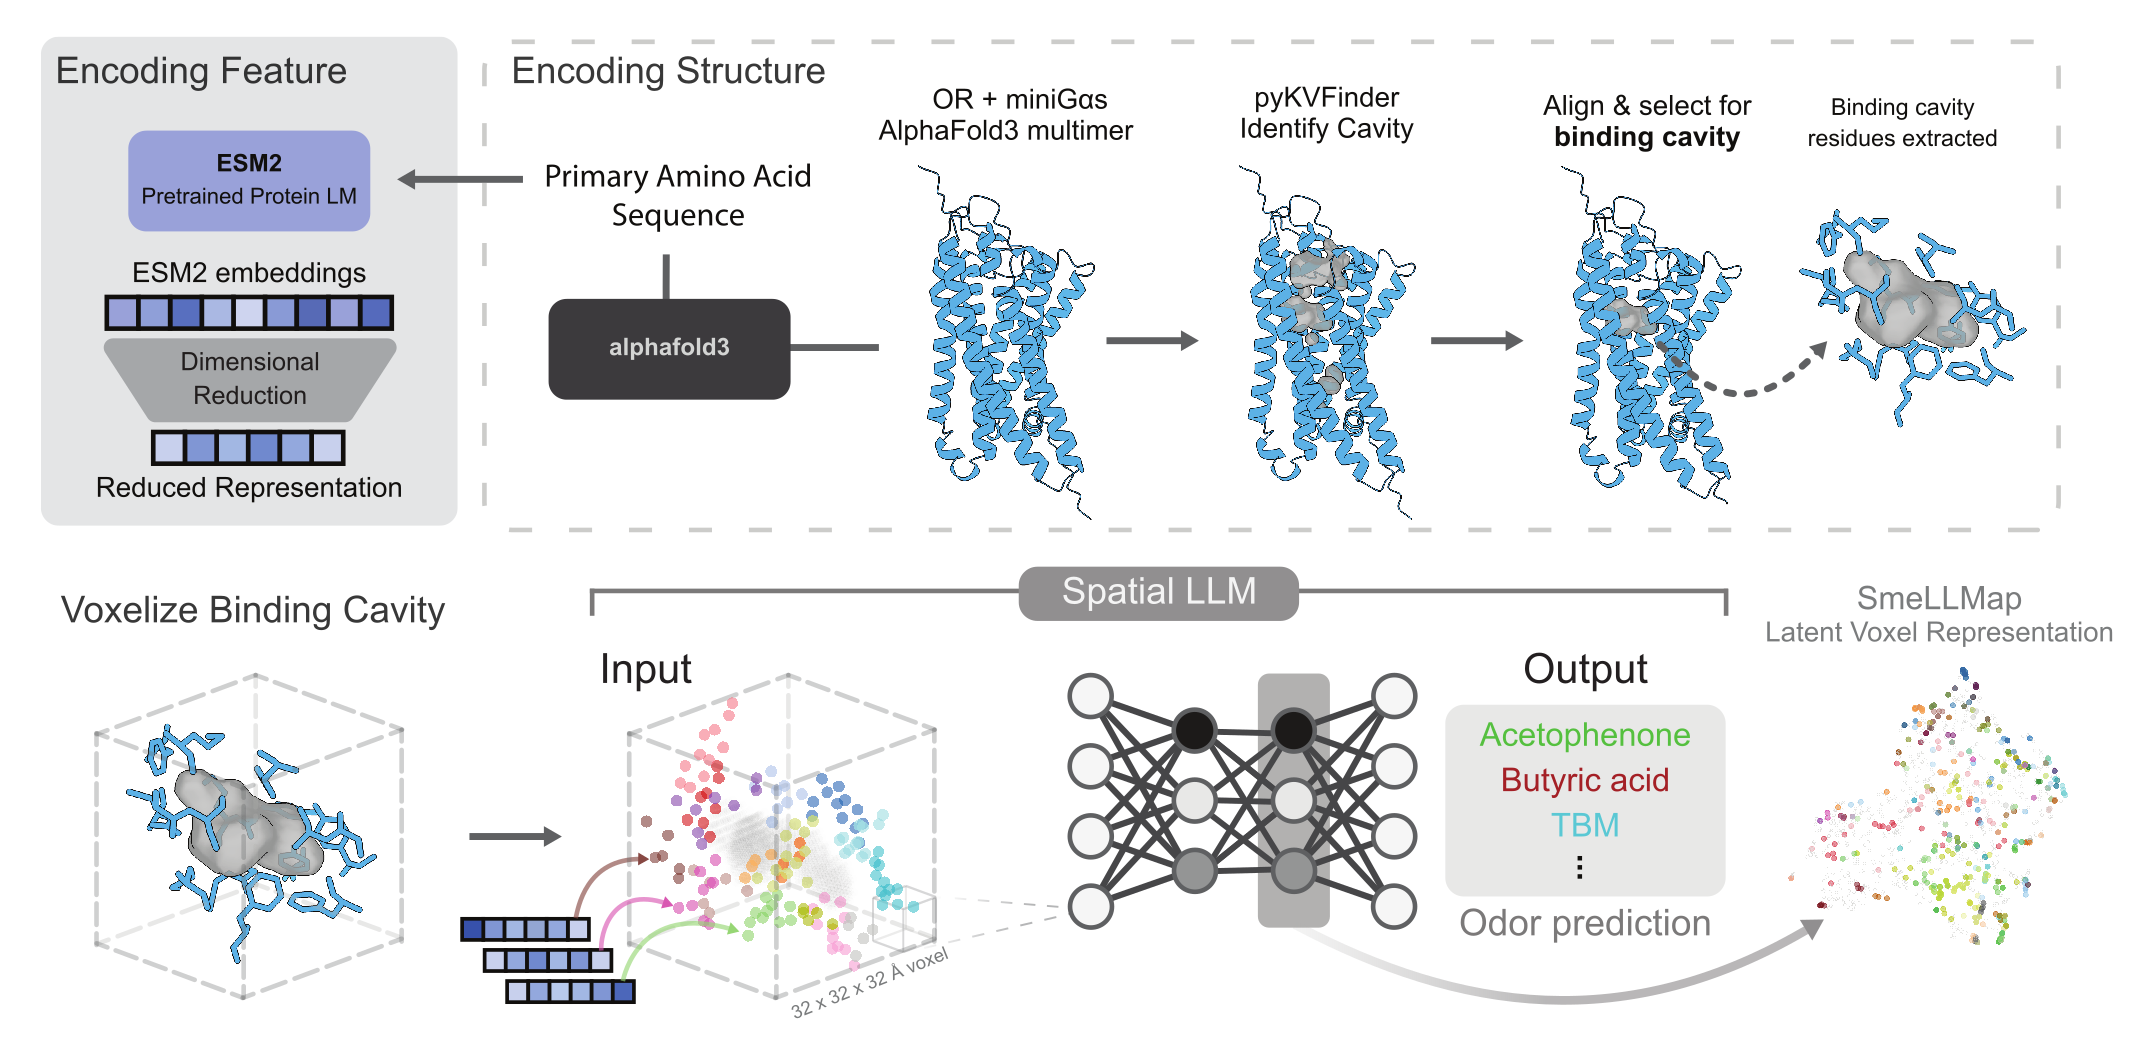
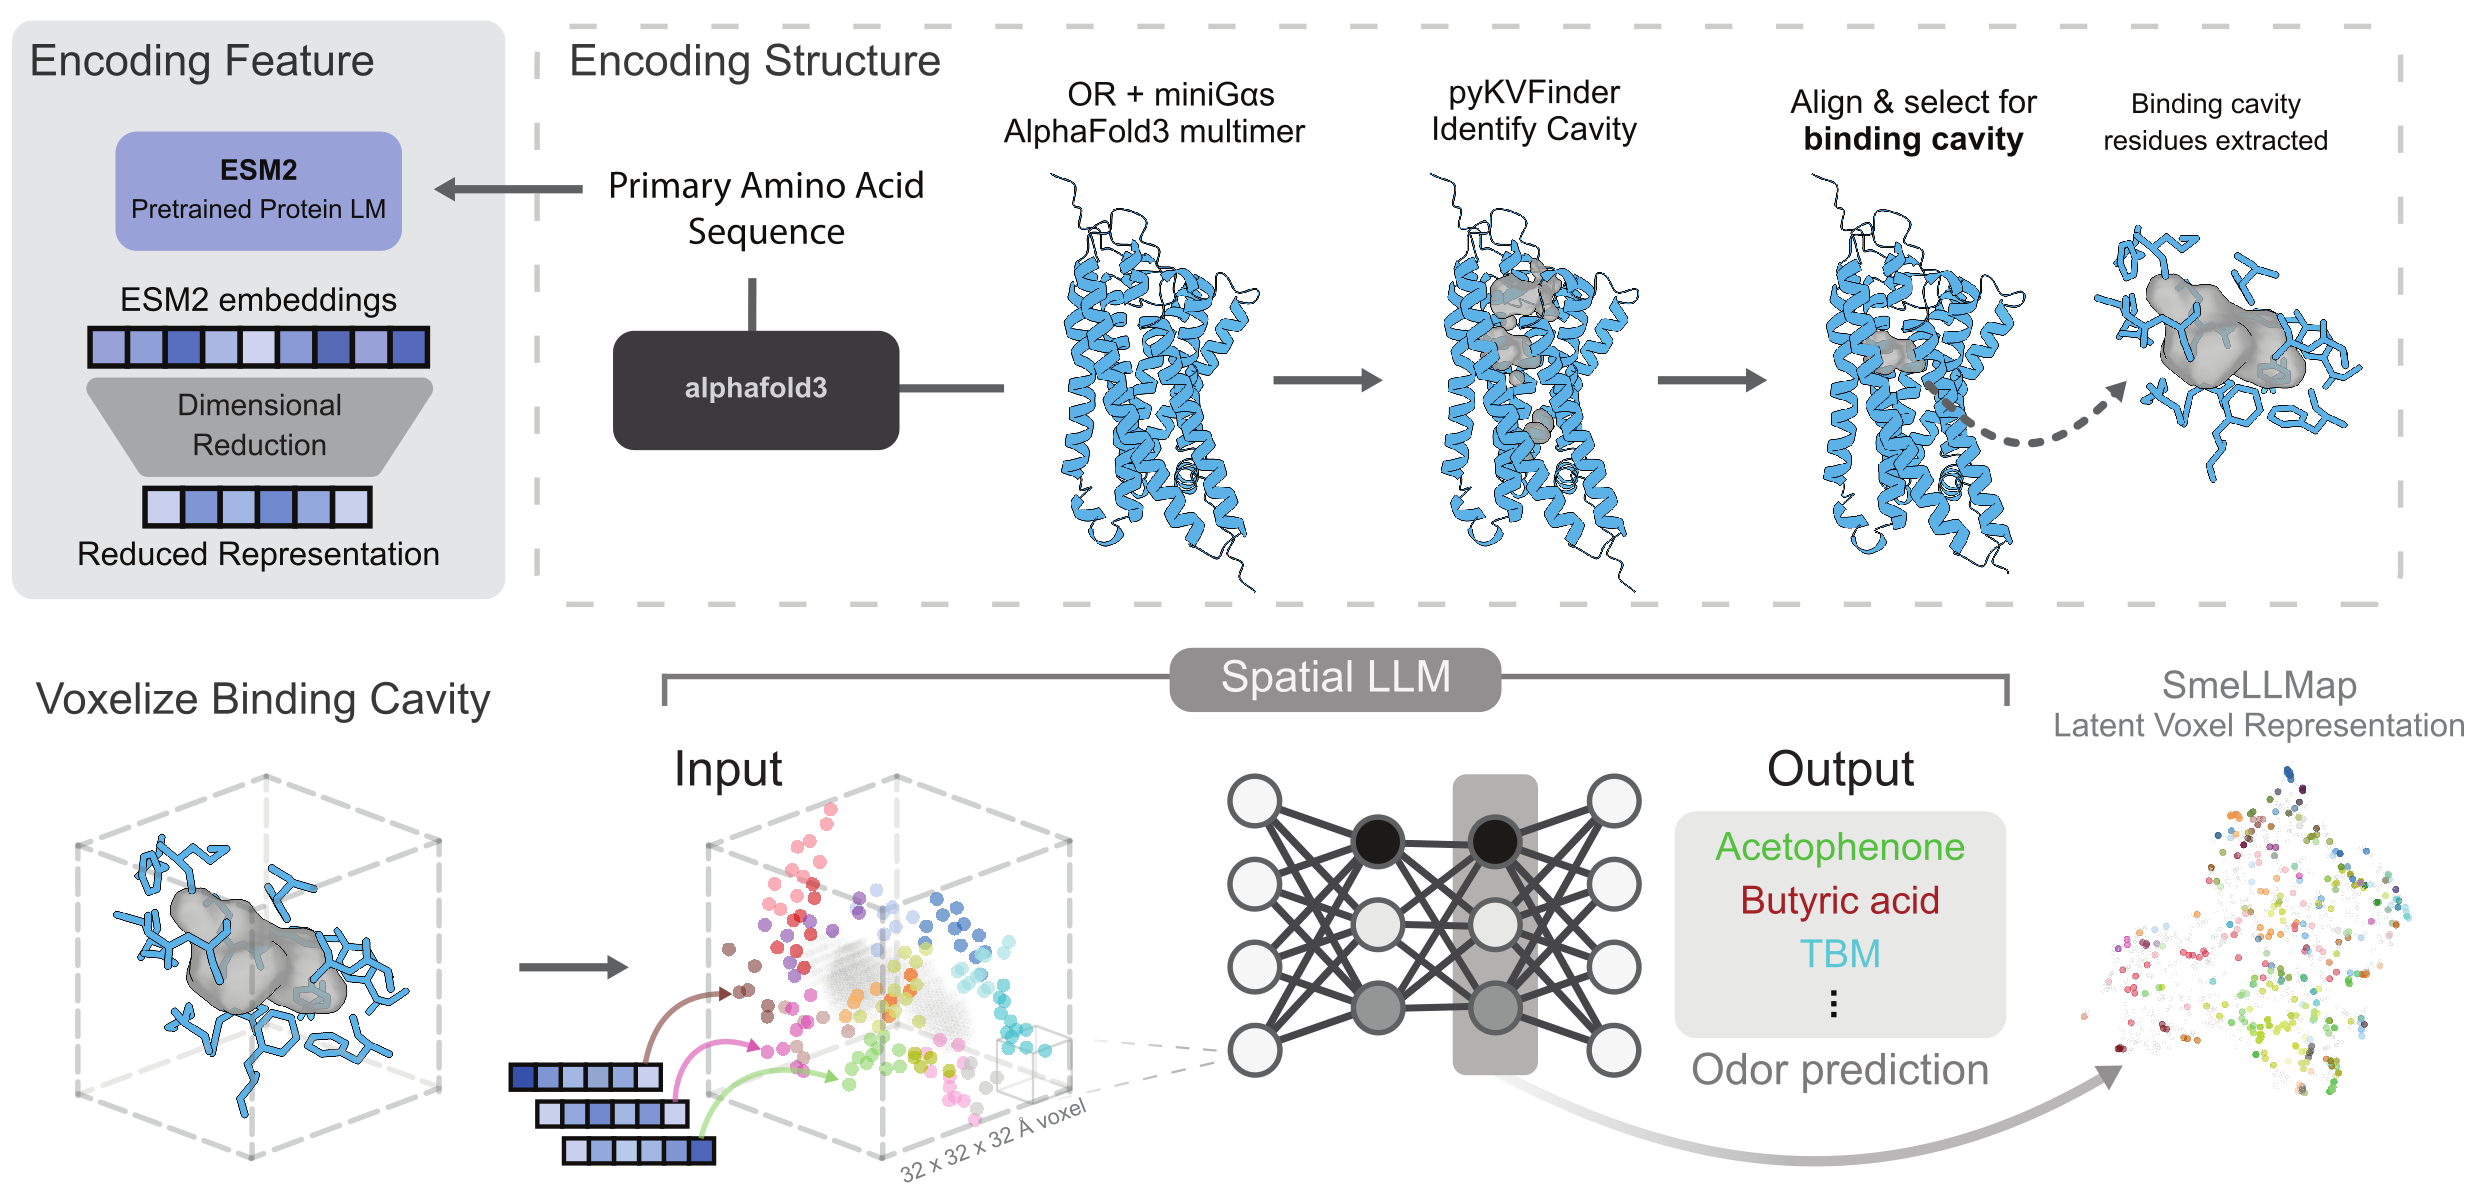
README update

diff --git a/README.md b/README.md
@@ -8,158 +8,106 @@
 
 ## Overview
 
-`OR_learning` contains the notebooks, scripts, and helper functions used to study how **olfactory receptor (OR) sequence and structure relate to odor recognition**. The core idea is to combine:
+`OR_learning` is the analysis workspace used to build a **structure-guided olfactory receptor learning pipeline**. It is **not a plug-and-play package**, but it is reasonably reproducible for readers who want to follow the procedure used in the study.
 
-- **ESM2** protein language model embeddings from OR amino acid sequences
-- **AlphaFold3**-based OR structural models
-- **pyKVFinder**-style binding cavity identification
-- **Spatial voxel encoding** of cavity residues and features
-- **CNN-based classifiers** for odor and receptor-level prediction
+At a high level, the workflow is:
 
-This repository is organized both as a **research workspace** and a **replication guide** for the spatial-LLM / “SmellLM” pipeline.
+- generate **AlphaFold3** receptor structures
+- align structures into a common frame
+- identify and extract the **binding cavity**
+- compute reduced **ESM2** residue features
+- encode those features into a shared **3D voxel space**
+- train CNN-based models for odor- and receptor-level prediction
 
----
-
-## Abstract in brief
-
-A major challenge in olfaction is that we still lack a clear map connecting **olfactory receptors** to the **odorants** they detect. This project addresses that gap by integrating sequence-derived representations from **ESM2** with **AlphaFold3** structural models of ORs. Predicted binding cavities are identified, aligned, converted into voxelized spatial features, and then used to train deep learning models that classify odor-related response patterns. In the associated study, this framework achieved strong predictive performance across multiple odor categories and helped reveal cavity features likely to contribute to receptor selectivity.
+In short, the repo supports a structural approach to mapping receptor sequence and cavity features onto odor response.
 
 ---
 
-## Pipeline at a glance
+## High-level workflow and where to look
 
-1. **Encode OR sequences with ESM2**  
-   Generate residue- or sequence-level embeddings from primary amino acid sequence.
+### 1) Generate AF3 structures
+This step is upstream of most analyses in `OR_learning`.
 
-2. **Predict OR structures with AlphaFold3**  
-   Build receptor–miniG-protein structural models and collect the resulting PDB files.
+- `../AF3_files/run_AF3_input.sh`
+- `../alphafold3/run_alphafold.py`
 
-3. **Identify and align binding cavities**  
-   Use cavity detection and structural alignment to define a shared **canonical binding cavity** across receptors.
+These are used to prepare and run the AlphaFold3 jobs whose outputs are then analyzed here.
 
-4. **Build spatial feature tensors**  
-   Map ESM-reduced residue features into a **3D voxel grid** centered on the cavity.
+### 2) Align structures
+Once AF3 models are available, the structures are aligned into a shared frame.
 
-5. **Train downstream models**  
-   Run CNN-based models for odor classification, chemical class prediction, OR classification, or binary tasks.
-
-6. **Interpret latent structure**  
-   Visualize learned embeddings, feature maps, and publication figures from saved outputs.
-
----
-
-## Repository layout
-
-| Path | Purpose | Typical use |
-|---|---|---|
-| `notebooks/binding_cavity/` | Stepwise exploratory and reproducible notebooks for cavity definition, AF3 processing, spatial encoding, and model setup | Start here to understand or rerun the pipeline |
-| `scripts/` | Scripted versions of preprocessing and model training workflows | Use for batch runs or reproducible training |
-| `utils/` | Shared helper functions for PDB parsing, voxelization, plotting, alignment, and analysis | Imported by both notebooks and scripts |
-| `img/` | Static figures and graphical abstracts | README / documentation assets |
-| `files/` | Local input data, metadata, embeddings, cavity pickles, screening tables | Required for replication; mostly not tracked in git |
-| `output/` | Model outputs, figures, intermediate results, and evaluation artifacts | Inspect trained results and generated plots |
-| `temp/` | Scratch space for temporary processing | Optional / disposable |
-
-### Important data locations
-
-For users trying to rerun the pipeline, the most relevant subfolders are:
-
-- `files/ESM/` – saved sequence and residue embeddings, plus reduced ESM representations
-- `files/binding_cavity/` – canonical cavity coordinates, residue-coordinate dictionaries, and reference centers
-- `files/pS6IP/` – odor response / screening tables used for supervised learning
-- `files/OR_seq/` – receptor sequence-related resources
-- `output/spatialESM_OdorClass/` – odor classification runs and evaluation outputs
-- `output/Features/` – downstream feature analyses and visualization outputs
-
----
-
-## Recommended order for replication
-
-If you want to **follow the project from raw inputs to trained models**, this is the most useful navigation path:
-
-### 1) Sequence features
-- `notebooks/binding_cavity/esm_embeddings.ipynb`
-- `scripts/esm_embeddings.py`
-
-Use these to generate or inspect **ESM2 embeddings** for mouse and human OR sequences.
-
-### 2) Binding cavity definition and alignment
-- `notebooks/binding_cavity/bc_0_binding_cavity.ipynb`
-- `notebooks/binding_cavity/bc_01_Canonical_binding_cavity.ipynb`
-- `notebooks/binding_cavity/bc_AF3_CBC.ipynb`
-- `scripts/bc_cav_dump_AF3.py`
+**Useful files:**
 - `scripts/tmalign_pdb_dump_AF3.py`
+- `notebooks/binding_cavity/bc_1_Structural_Sequence_Alignment.ipynb`
 
-These files define the **canonical binding cavity**, align structures, and extract cavity / residue coordinates.
+### 3) Identify and extract binding cavities
+The next step is to detect cavities, compare them across receptors, and define a **canonical binding cavity**.
 
-### 3) Spatial encoding and voxel generation
+**Useful files:**
+- `scripts/bc_cav_dump_AF3.py`
+- `notebooks/binding_cavity/bc_0_binding_cavity.ipynb`
+- `notebooks/binding_cavity/bc_AF3_CBC.ipynb`
+- `notebooks/binding_cavity/bc_01_Canonical_binding_cavity.ipynb`
+
+### 4) Compute ESM features
+Sequence-based features are generated from OR amino acid sequences using ESM2 and then reduced for downstream use.
+
+**Useful files:**
+- `scripts/esm_embeddings.py`
+- `notebooks/binding_cavity/esm_embeddings.ipynb`
+
+### 5) Build spatial encodings
+Cavity geometry and residue-level ESM features are combined into a shared voxel representation.
+
+**Useful files:**
+- `scripts/bc_Cbc_coords_AF3.py`
+- `scripts/bc_Cbc_voxel_esm_dump.py`
 - `notebooks/binding_cavity/bc_spatial_encoding_AF3.ipynb`
 - `notebooks/binding_cavity/bc_spatial_feature_AF3.ipynb`
-- `scripts/bc_Cbc_voxel_esm_dump.py`
 
-These steps combine **cavity geometry + reduced ESM residue embeddings** into the spatial voxel representation used for learning.
+### 6) Train prediction models
+The encoded cavity tensors are then used in CNN models for odor and related classification tasks.
 
-### 4) Model training
+**Useful files:**
 - `scripts/cnn_spatialESM_Odorclassification_model_AF3.py`
 - `scripts/cnn_spatialESM_Chemcalssification_model_AF3.py`
 - `scripts/cnn_spatialESM_ORclassification_model_AF3.py`
 - `scripts/cnn_spatialESM_binary_model_AF3.py`
 
-These are the main training scripts for odor-related prediction tasks.
+### 7) Review figures and outputs
+Final plots, summary analyses, and publication-oriented visualizations are saved in the notebooks and output folders.
 
-### 5) Figures and interpretation
+**Useful files:**
 - `notebooks/figures_code/Figures.ipynb`
-- `output/pub_Figures/`
 - `output/spatialESM_OdorClass/`
 - `output/Features/`
-
-Use these to review saved results, ROC curves, latent maps, and figure-generation code.
-
----
-
-## Practical notes before running
-
-### Data availability
-Large inputs and intermediates are stored under `files/` and `output/`, and many of them are intentionally **git-ignored**. Full replication therefore requires access to the local datasets used in development, including:
-
-- pS6 screening / response tables
-- OR metadata and mappings
-- ESM embedding files
-- cavity coordinate pickles
-- AF3-derived structure outputs
-
-### Path assumptions
-Several notebooks and scripts currently use **absolute local paths** such as:
-
-```python
-/mnt/data2/Justice/OR_learning/...
-```
-
-If you run this repository on another machine, update those paths or define a shared project root before execution.
-
-### Archived material
-Older exploratory work is kept in:
-
-- `notebooks/old/`
-- `scripts/old/`
-
-These are useful for history and troubleshooting, but the **AF3-based notebooks and scripts** are the best place to start for current replication.
+- `output/pub_Figures/`
 
 ---
 
-## Key idea of the project
+## Repository navigation
 
-Instead of treating ORs only as linear sequences, this repository builds a **structure-aware representation of the receptor binding cavity**. By placing reduced language-model features into a shared 3D cavity frame, the models can learn spatial patterns associated with odor responsiveness. In that sense, the project aims to move toward a **structural map of smell**.
+| Path | What it contains |
+|---|---|
+| `notebooks/binding_cavity/` | Main step-by-step notebooks for the AF3 / cavity / spatial encoding workflow |
+| `scripts/` | Scripted versions of preprocessing and training steps |
+| `utils/` | Shared helper functions used throughout the notebooks and scripts |
+| `files/` | Local inputs such as ESM embeddings, cavity coordinates, and response tables |
+| `output/` | Model outputs, figures, and intermediate results |
+| `img/` | Static images including the graphical abstract |
 
 ---
 
-## Suggested starting point for new users
+## Notes
 
-If you are opening this repository for the first time, the quickest path is:
+- Many required inputs live in `files/` and are **not fully tracked in git**.
+- Several scripts use local absolute paths such as `/mnt/data2/Justice/OR_learning/...`.
+- Older exploratory material is kept in `notebooks/old/` and `scripts/old/`.
 
-1. Read this README
-2. Open `notebooks/binding_cavity/bc_01_Canonical_binding_cavity.ipynb`
-3. Then review `notebooks/binding_cavity/bc_spatial_encoding_AF3.ipynb`
-4. Finally run or inspect `scripts/cnn_spatialESM_Odorclassification_model_AF3.py`
+If you want the quickest orientation, start with:
 
-That sequence gives the clearest view of **how structures are prepared, encoded, and used for prediction**.
+1. `notebooks/binding_cavity/bc_01_Canonical_binding_cavity.ipynb`
+2. `notebooks/binding_cavity/bc_spatial_encoding_AF3.ipynb`
+3. `scripts/cnn_spatialESM_Odorclassification_model_AF3.py`
+
+That order gives the clearest chronological view of how the pipeline is built.
